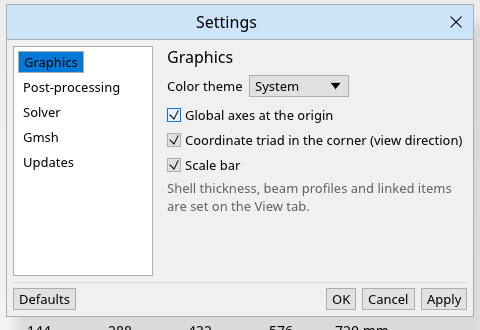
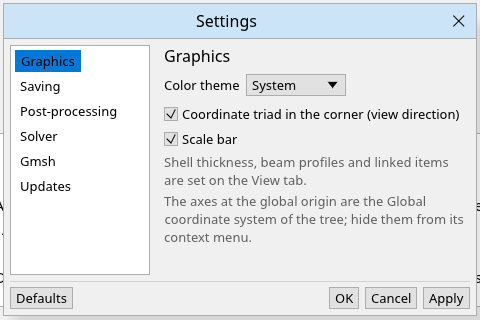
Show the global coordinate system in the structure tree
The triad at the global origin is no longer a setting: Coordinate Systems
in the FE Model and Results trees always start with a fixed Global entry,
which cannot be edited, renamed or deleted. Hide and Show in its context
menu (and Hide All / Show All of Coordinate Systems) switch the triad per
analysis; results share it with the FE model like the other features, and
the Geometry workspace follows the FE model. Saved as an optional field of
the analysis (no format change). The Graphics settings drop the checkbox.

Claude-Session: https://claude.ai/code/session_0117wmBLjiuWMfsuTZiNgEfh

Changed region(s): [[0.0, 0.0, 1.0, 1.0], [0.3438, 0.1562, 0.5, 0.2188]]

diff --git a/crates/plx-app/src/tree.rs b/crates/plx-app/src/tree.rs
@@ -76,6 +76,9 @@ pub enum TreeItem {
     DefinedField(usize, usize),
     /// Features of the FE model or of the shown results, by index.
     ReferencePoint(usize),
+    /// The global coordinate system, first among the coordinate systems; it can be hidden,
+    /// but not edited, renamed or deleted.
+    GlobalCoordinateSystem,
     CoordinateSystem(usize),
     Plane(usize),
     /// A result path of the shown results, by index.
@@ -812,6 +815,7 @@ fn has_properties(item: &TreeItem) -> bool {
             | TreeItem::StepGroup(..)
             | TreeItem::FieldOutputs
             | TreeItem::HistoryField(..)
+            | TreeItem::GlobalCoordinateSystem
     )
 }
 
@@ -984,6 +988,7 @@ fn shows_symbol_of(group: &TreeItem, item: &TreeItem) -> bool {
         | (TreeItem::StepGroup(s, "Loads"), TreeItem::Load(t, _)) => s == t,
         (TreeItem::Group(REFERENCE_POINTS), TreeItem::ReferencePoint(_))
         | (TreeItem::Group(COORDINATE_SYSTEMS), TreeItem::CoordinateSystem(_))
+        | (TreeItem::Group(COORDINATE_SYSTEMS), TreeItem::GlobalCoordinateSystem)
         | (TreeItem::Group(PLANES), TreeItem::Plane(_)) => true,
         _ => false,
     }
@@ -1200,6 +1205,10 @@ pub const LINKED_MESH_TIP: &str = "Takes the mesh of the part from the link that
     part again, in place of the mesh made here.";
 
 /// What a compound part is, for its tooltips.
+/// Tooltip of the global coordinate system in the tree.
+const GLOBAL_SYSTEM_TIP: &str = "The coordinate system of the model, with its triad at the \
+                                 origin. Hide it from the context menu.";
+
 pub const COMPOUND_TIP: &str = "Joins the parts into one part of the FE model. Each is \
     meshed on its own; where they touch, the solver input ties them, as a bonded contact \
     does.";
@@ -1458,6 +1467,17 @@ impl Tree<'_> {
                     {
                         self.response.suppress = Some((suppressed, false));
                     }
+                }
+            });
+        }
+        if item == TreeItem::GlobalCoordinateSystem {
+            response = response.on_hover_text(GLOBAL_SYSTEM_TIP);
+            let visible = self.symbols.get(&item) != Some(&false);
+            response.context_menu(|ui| {
+                ui.style_mut().wrap_mode = Some(egui::TextWrapMode::Extend);
+                let label = if visible { "Hide" } else { "Show" };
+                if ui.button(label).clicked() {
+                    (self.response.symbol_visibility).push((item.clone(), !visible));
                 }
             });
         }
@@ -1740,7 +1760,9 @@ impl Tree<'_> {
             TreeItem::CoordinateSystem(i) if self.moving_systems.contains(i) => {
                 TreeIcon::MovingCoordinateSystem
             }
-            TreeItem::CoordinateSystem(_) => TreeIcon::CoordinateSystem,
+            TreeItem::CoordinateSystem(_) | TreeItem::GlobalCoordinateSystem => {
+                TreeIcon::CoordinateSystem
+            }
             _ => dots,
         }
     }
@@ -2391,14 +2413,14 @@ impl Tree<'_> {
         });
     }
 
-    /// The features: reference points and coordinate systems, and planes.
+    /// The features: reference points and coordinate systems, and planes. The global
+    /// coordinate system is always there, so the features are too.
     fn features(&mut self, ui: &mut Ui, fe: &FeModel) {
         let open = !fe.reference_points.is_empty()
             || !fe.coordinate_systems.is_empty()
             || !fe.planes.is_empty();
-        if !open {
-            return;
-        }
+        self.symbols
+            .insert(TreeItem::GlobalCoordinateSystem, !fe.global_system_hidden);
         // Hidden features have no mark in the 3D view unless selected, like hidden symbols.
         for (i, point) in fe.reference_points.iter().enumerate() {
             self.symbols
@@ -2432,8 +2454,11 @@ impl Tree<'_> {
                     .filter(|(_, c)| c.moves(&fe.coordinate_systems))
                     .map(|(i, _)| i)
                     .collect();
-                let systems = (labels.iter().enumerate())
-                    .map(|(i, label)| (TreeItem::CoordinateSystem(i), label.as_str()))
+                let systems = std::iter::once((TreeItem::GlobalCoordinateSystem, GLOBAL_SYSTEM))
+                    .chain(
+                        (labels.iter().enumerate())
+                            .map(|(i, label)| (TreeItem::CoordinateSystem(i), label.as_str())),
+                    )
                     .collect();
                 tree.container(ui, COORDINATE_SYSTEMS, systems);
                 let planes = (fe.planes.iter().enumerate())
@@ -2826,6 +2851,8 @@ fn fe_model(tree: &mut Tree, ui: &mut Ui, model: Option<&mut Model>, solver: &[F
 pub const HOT_SPOTS: &str = "Hot Spot Stresses";
 pub const REFERENCE_POINTS: &str = "Reference Points";
 pub const COORDINATE_SYSTEMS: &str = "Coordinate Systems";
+/// Name of the global coordinate system in the tree.
+pub const GLOBAL_SYSTEM: &str = "Global";
 pub const PLANES: &str = "Planes";
 /// Container of the result paths in the Results tree.
 pub const PATHS: &str = "Paths";

diff --git a/crates/plx-app/src/app.rs b/crates/plx-app/src/app.rs
@@ -777,7 +777,7 @@ impl AnalysisWindow {
     pub fn set_settings(&mut self, settings: &Settings) {
         if self.workbench.settings != *settings {
             self.workbench.settings = settings.clone();
-            // The overlay (global axes, labels, status block) is built from the settings.
+            // The overlay (labels, status block) is built from the settings.
             self.workbench.update_contour();
         }
     }
@@ -3069,6 +3069,12 @@ impl Workbench {
             }
             if view == TreeView::Results {
                 self.share_feature_edit(self.current_result, &before);
+            }
+            // The triad of the global coordinate system is part of the overlay.
+            if (response.symbol_visibility.iter())
+                .any(|(item, _)| *item == TreeItem::GlobalCoordinateSystem)
+            {
+                self.update_contour();
             }
         }
         if let (Some(item), Some(model)) = (response.swap_master_slave, self.model.as_mut()) {
@@ -8539,6 +8545,13 @@ impl Workbench {
             (legend.as_ref()).map(|legend| plx_render::ContourPalette::new(&legend.palette()));
         self.viewport.options.lic = view.and_then(crate::lic::display);
         let (graphics, post) = (&self.settings.graphics, &self.settings.post);
+        let global_hidden = match self.tree_view {
+            TreeView::Geometry => self
+                .model
+                .as_ref()
+                .is_some_and(|m| m.fe.global_system_hidden),
+            _ => model.fe.global_system_hidden,
+        };
         // The open transformation dialog shows the points and axis of the selected item.
         let transformation = (self.transformation_dialog.as_ref())
             .filter(|d| self.tree_view == TreeView::Results && d.result == self.current_result);
@@ -8580,7 +8593,9 @@ impl Workbench {
                 Some([min, _]) => section_marker("Min", min),
                 None => marker("Min", v.minimum()),
             }),
-            global_origin: graphics.global_axes.then(|| model.global_origin()),
+            // The global coordinate system is hidden from the Coordinate Systems of the
+            // tree; the geometry follows the FE model.
+            global_origin: (!global_hidden).then(|| model.global_origin()),
             show_scale_bar: graphics.scale_bar,
             length_unit: units.unit(plx_model::Quantity::Length),
             length_factor: Some(

diff --git a/crates/plx-app/src/settings.rs b/crates/plx-app/src/settings.rs
@@ -68,8 +68,6 @@ impl Settings {
 pub struct Graphics {
     /// Light or dark colours, or as the operating system is set.
     pub theme: crate::style::ThemeChoice,
-    /// Axis triad at the global origin of the model.
-    pub global_axes: bool,
     /// Axis triad in the top right corner showing the view direction.
     pub view_triad: bool,
     pub scale_bar: bool,
@@ -92,7 +90,6 @@ impl Default for Graphics {
     fn default() -> Self {
         Self {
             theme: crate::style::ThemeChoice::System,
-            global_axes: true,
             view_triad: true,
             scale_bar: true,
             shell_thickness: true,
@@ -572,13 +569,16 @@ impl SettingsWindow {
                 .response
                 .on_hover_text("System follows the light or dark mode of the operating system.");
                 ui.add_space(4.0);
-                ui.checkbox(&mut g.global_axes, "Global axes at the origin");
                 ui.checkbox(
                     &mut g.view_triad,
                     "Coordinate triad in the corner (view direction)",
                 );
                 ui.checkbox(&mut g.scale_bar, "Scale bar");
                 ui.weak("Shell thickness, beam profiles and linked items are set on the View tab.");
+                ui.weak(
+                    "The axes at the global origin are the Global coordinate system of the \
+                     tree; hide them from its context menu.",
+                );
             }
             Page::PostProcessing => {
                 let p = &mut self.draft.post;
@@ -931,7 +931,6 @@ mod tests {
         let settings: Settings = ron::from_str("(post: (min_label: true))").unwrap();
         assert!(settings.post.min_label);
         assert!(settings.post.max_label);
-        assert!(settings.graphics.global_axes);
         assert!(settings.graphics.shell_thickness);
         assert!(settings.updates.check_at_startup);
         assert!(settings.graphics.checklist);

diff --git a/crates/plx-app/src/features.rs b/crates/plx-app/src/features.rs
@@ -2167,6 +2167,38 @@ mod tests {
     }
 
     #[test]
+    fn the_global_system_is_hidden_with_the_model_and_shared_with_results() {
+        let mut model = Model::new(std::path::Path::new("test.inp"), FeMesh::default());
+        assert!(!model.fe.global_system_hidden);
+        let item = crate::tree::TreeItem::GlobalCoordinateSystem;
+        assert!(crate::setup::set_visible(&mut model.fe, &item, false));
+        assert!(model.fe.global_system_hidden);
+        // Saved with the analysis, left out of the file while shown.
+        let saved = ron::to_string(&model.fe).unwrap();
+        assert!(
+            ron::from_str::<plx_model::FeModel>(&saved)
+                .unwrap()
+                .global_system_hidden
+        );
+        let mut shown = model.fe.clone();
+        crate::setup::set_visible(&mut shown, &item, true);
+        assert!(
+            !ron::to_string(&shown)
+                .unwrap()
+                .contains("global_system_hidden")
+        );
+        // Results share it with the FE model, like the other features.
+        let mut results = plx_model::FeModel::default();
+        results.set_shared_features(&model.fe);
+        assert!(results.global_system_hidden);
+        let before = results.clone();
+        crate::setup::set_visible(&mut results, &item, true);
+        let units = results.properties.units;
+        model.fe.take_feature_edit(&before, &results, units);
+        assert!(!model.fe.global_system_hidden);
+    }
+
+    #[test]
     fn a_new_point_at_the_centre_of_faces_couples_them_deformably() {
         let mut model = Model::new(std::path::Path::new("test.inp"), FeMesh::default());
         let dialog = new_point(&model, faces(2));

diff --git a/crates/plx-model/src/features.rs b/crates/plx-model/src/features.rs
@@ -400,6 +400,7 @@ impl FeModel {
         FeModel {
             reference_points: self.reference_points.clone(),
             coordinate_systems: self.coordinate_systems.clone(),
+            global_system_hidden: self.global_system_hidden,
             planes: self.planes.clone(),
             ..FeModel::default()
         }
@@ -409,6 +410,7 @@ impl FeModel {
     pub fn same_shared_features(&self, other: &FeModel) -> bool {
         self.reference_points == other.reference_points
             && self.coordinate_systems == other.coordinate_systems
+            && self.global_system_hidden == other.global_system_hidden
             && self.planes == other.planes
     }
 
@@ -417,6 +419,7 @@ impl FeModel {
     pub fn set_shared_features(&mut self, source: &FeModel) {
         self.reference_points = source.reference_points.clone();
         self.coordinate_systems = source.coordinate_systems.clone();
+        self.global_system_hidden = source.global_system_hidden;
         self.planes = source.planes.clone();
     }
 
@@ -459,6 +462,7 @@ impl FeModel {
             &converted.coordinate_systems,
             |c| c.id,
         );
+        self.global_system_hidden = after.global_system_hidden;
         self.planes = merge(
             &self.planes,
             &before.planes,

diff --git a/crates/plx-app/src/setup.rs b/crates/plx-app/src/setup.rs
@@ -5288,9 +5288,13 @@ fn active_mut<'a>(fe: &'a mut FeModel, item: &TreeItem) -> Option<&'a mut bool> 
     }
 }
 
-/// Shows or hides the symbol of a constraint, boundary condition or load in the 3D view;
-/// returns false for other items.
+/// Shows or hides the symbol of a constraint, boundary condition, load or feature, or the
+/// triad of the global coordinate system, in the 3D view; returns false for other items.
 pub fn set_visible(fe: &mut FeModel, item: &TreeItem, visible: bool) -> bool {
+    if *item == TreeItem::GlobalCoordinateSystem {
+        fe.global_system_hidden = !visible;
+        return true;
+    }
     let shown = match *item {
         TreeItem::BoundaryCondition(s, i) => (fe.steps.get_mut(s))
             .and_then(|st| st.boundary_conditions.get_mut(i))

diff --git a/crates/plx-model/src/lib.rs b/crates/plx-model/src/lib.rs
@@ -234,6 +234,11 @@ pub struct FeModel {
     /// The features: points and coordinate systems other items refer to by id.
     pub reference_points: Vec<ReferencePoint>,
     pub coordinate_systems: Vec<CoordinateSystem>,
+    /// The global coordinate system, listed first among the coordinate systems, has its
+    /// triad at the origin hidden in the 3D view. It is no item of its own: it cannot be
+    /// renamed or deleted.
+    #[serde(default, skip_serializing_if = "std::ops::Not::not")]
+    pub global_system_hidden: bool,
     pub planes: Vec<Plane>,
     /// Results on planes; not part of the input file.
     pub result_planes: Vec<ResultPlane>,

diff --git a/crates/plx-app/src/properties.rs b/crates/plx-app/src/properties.rs
@@ -178,6 +178,7 @@ fn rows_of(model: &Model, item: &TreeItem, rows: &mut Vec<(&'static str, String)
         | TreeItem::HotSpot(_)
         | TreeItem::ReferencePoint(_)
         | TreeItem::CoordinateSystem(_)
+        | TreeItem::GlobalCoordinateSystem
         | TreeItem::ResultPath(_)
         | TreeItem::Plane(_)
         | TreeItem::ResultPlane(_)

diff --git a/crates/plx-model/src/fingerprint.rs b/crates/plx-model/src/fingerprint.rs
@@ -52,6 +52,8 @@ pub fn steps_input(mesh: &FeMesh, fe: &FeModel, count: usize) -> u64 {
         history_outputs,
         reference_points,
         coordinate_systems,
+        // Only the view: the triad at the origin.
+        global_system_hidden: _,
         planes,
         result_planes: _,
         result_paths: _,
